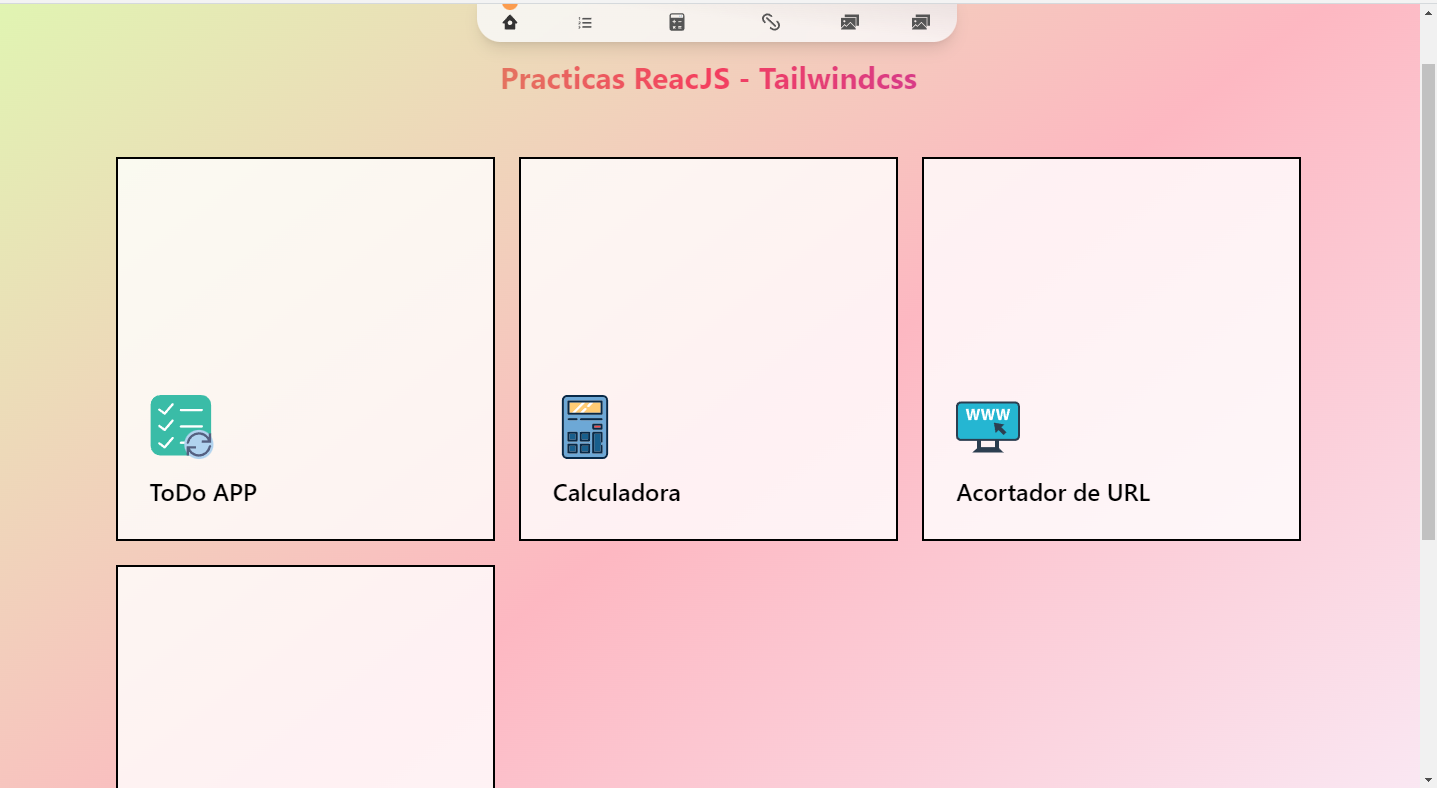
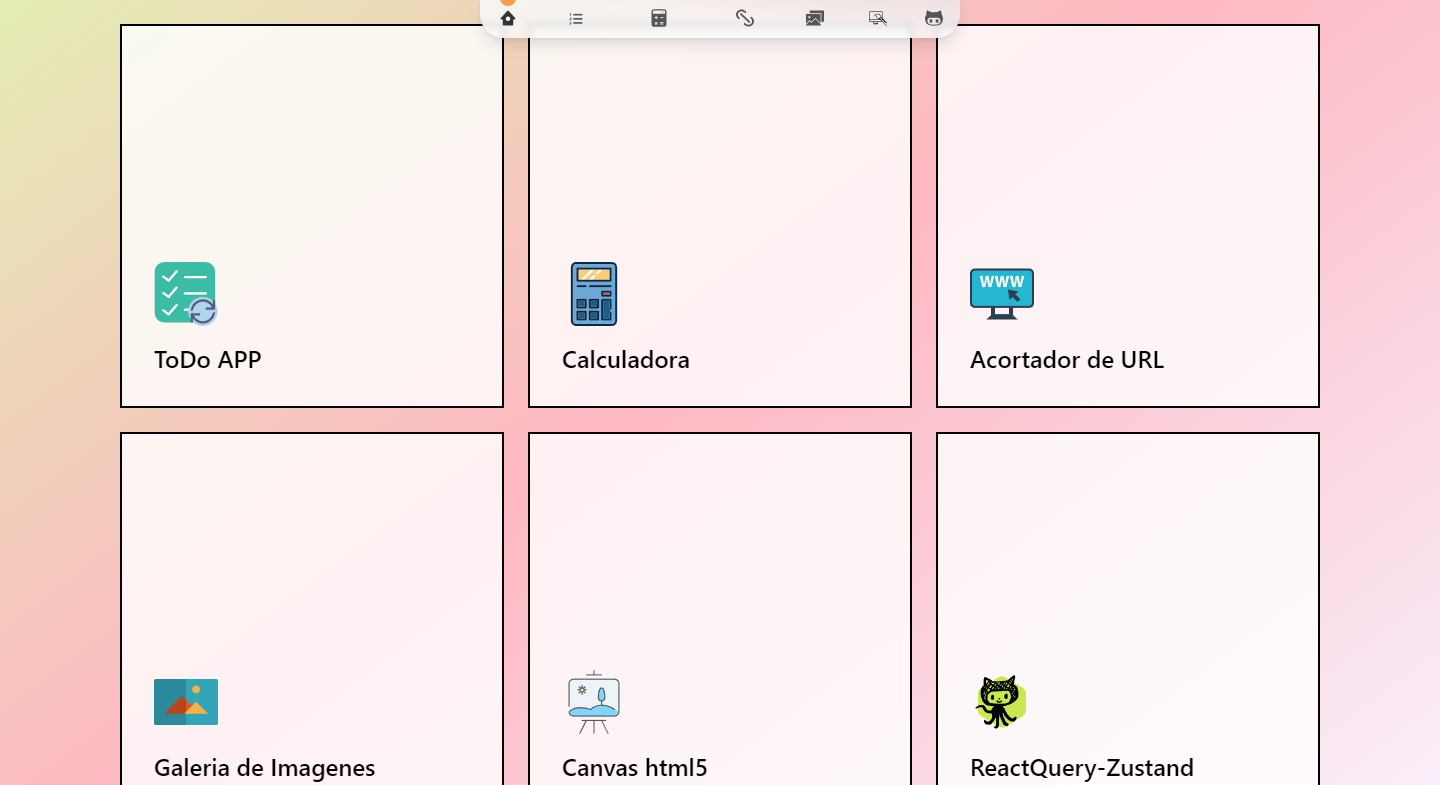
subiendo ecommerce

diff --git a/src/components/views/Menu.jsx b/src/components/views/Menu.jsx
@@ -1,100 +1,120 @@
-import React from 'react'
-import { NavLink } from 'react-router-dom'
-import homeGif from '../../images/icons8-casa.gif'
-import { image } from '../../images/imagenes'
-import './menu.css'
+import React from "react";
+import { NavLink } from "react-router-dom";
+import { image } from "../../images/imagenes";
+import "./menu.css";
 
-
-export default function Menu({home,changeHome,setHome}) {
-
-
+export default function Menu({ home, changeHome, setHome }) {
   return (
-    <div className={home?"w-1/2 duration-500":"fixed scale-75 md:scale-100 left-5 z-50 md:left-10 duration-500"}>
-    <ul 
-    
-    className={home?"z-50 flex flex-col justify-end items-start md:items-center gap-5 md:gap-6 scale-90 md:scale-100 md:pl-7 text-lg duration-500 ":"menuActivo flex flex-col justify-end gap-2 md:gap-3 items-center text-lg duration-500 z-50  "}>
-      <NavLink 
-      to="/"
-      
-      className={home?"hidden":"flex flex-col delay-100 link duration-200 absolute -bottom-16 w-8 hover:-translate-y-1 group cursor-pointer  translate-x-24 "}>
-        <div 
-        className=" group-hover:shadow-lg  group-hover:shadow-gray-300 duration-200 rounded-3xl flex justify-center  items-center">
-          <img
-            className="group-hover:-translate-y-3 w-3/5 delay-150 animate- duration-300"
-            src={image.back.url}
-            alt="Trabajos"
-          />
-        </div>
-        <p className="group-hover:font-bold font-medium  text-xs text-center group-hover:text-sky-900  ">
-          volver
-        </p>
-      </NavLink>
-      <NavLink 
-      to="/trabajos"
-      className={"flex flex-col delay-100 link duration-200 w-16 hover:-translate-y-1 group cursor-pointer md:gap-3 gap-1 translate-x-24 "}>
-        <div 
-        className="bg-gradient-to-tr  from-blue-400 to-blue-500 group-hover:shadow-lg group-hover:-translate-y-1 group-hover:shadow-gray-300 duration-200  py-4 rounded-lg md:rounded-3xl flex justify-center  items-center">
-          <img
-          width="100px"
-          height="100px"
-            className="group-hover:-translate-y-3 w-2/4 delay-150 duration-300 object-contain"
[1 lines of base64/hex data omitted]
-            alt="Trabajos"
-          />
-        </div>
-        <p className="group-hover:font-bold font-medium uppercase text-sm text-center group-hover:text-sky-900  ">
-          Trabajos
-        </p>
-      </NavLink>
-      <NavLink 
-      to='/labs'
-      className={"flex flex-col link duration-200 delay-150 w-16 hover:-translate-y-1 group cursor-pointer md:gap-3 gap-1 translate-x-10"}>
-        <div className="bg-gradient-to-tr from-red-300 via-red-300 to-red-400 group-hover:shadow-lg group-hover:shadow-gray-300 duration-200 h-full py-4  rounded-lg md:rounded-3xl group-hover:-translate-y-1 flex justify-center text-3xl items-center">
-          <img
-            width="100px"
-            height="100px"
-            alt="Laboratorio y Practicas"
-            className="group-hover:-translate-y-3 w-2/4 delay-150 duration-300 object-contain"
[1 lines of base64/hex data omitted]
-          />
-        </div>
-        <p className="group-hover:font-bold font-medium text-center uppercase text-sm group-hover:text-sky-900  ">
-          Labs
-        </p>
-      </NavLink >
-      <NavLink 
-          to='/aboutme'
-      className={"flex flex-col link duration-200 delay-200 hover:break-normal w-16 hover:-translate-y-1 group cursor-pointer md:gap-3 gap-1  translate-x-10"}>
-        <div className="bg-gradient-to-tr from-orange-200 to-orange-300 group-hover:shadow-lg group-hover:-translate-y-1 group-hover:shadow-gray-300 duration-200 h-full py-4 rounded-lg md:rounded-3xl flex justify-center text-3xl items-center">
-          <img
-            alt="sobre mi"
-            width="100px"
-                height="100px"
-                className="group-hover:-translate-y-3 w-2/4 delay-150 duration-300 object-contain"
[1 lines of base64/hex data omitted]
-          />
-        </div>
-        <p className="group-hover:font-bold  group-hover:break-normal font-medium text-center uppercase text-sm group-hover:text-sky-900  ">
-          Acerca de mi
-        </p>
-      </NavLink >
-      <NavLink 
-          to='/contacto'
-      className={"flex flex-col link duration-200 delay-300 w-16 hover:-translate-y-1 group cursor-pointer md:gap-3 gap-1 z-50 translate-x-24"}>
-        <div className="bg-gradient-to-tr from-teal-600 to-teal-700 group-hover:shadow-lg group-hover:-translate-y-1 group-hover:shadow-gray-300 duration-200 h-full py-4 rounded-lg md:rounded-3xl flex justify-center text-3xl items-center z-50 ">
-          <img
-            width="100px"
-            height="100px"
-            className="group-hover:-translate-y-3 w-2/4 delay-150 duration-300 object-contain"
-            alt="contacto"
[1 lines of base64/hex data omitted]
-          />
-        </div>
-        <p className="group-hover:font-bold font-medium text-center uppercase text-sm group-hover:text-sky-900 z-50  ">
-          Contacto
-        </p>
-      </NavLink >
-    </ul>
-  </div>
-  )
+    <div
+      className={
+        home
+          ? "w-1/2 duration-500 "
+          : "fixed scale-75 md:scale-100 left-5 z-50 md:left-10 duration-500"
+      }
+    >
+      <ul
+        className={
+          home
+            ? "z-50 flex flex-col justify-end items-start md:items-center gap-10 md:gap-6 scale-90 md:scale-100 md:pl-7 mt-10 text-lg duration-500 "
+            : "menuActivo flex flex-col justify-end gap-2 md:gap-3 items-center text-lg duration-500 z-50  "
+        }
+      >
+        <NavLink
+          to="/"
+          className={
+            home
+              ? "hidden"
+              : "flex flex-col delay-100 link duration-200 absolute -bottom-16 w-8 hover:-translate-y-1 group cursor-pointer  translate-x-24 "
+          }
+        >
+          <div className=" group-hover:shadow-lg  group-hover:shadow-gray-300 duration-200 rounded-3xl flex justify-center  items-center">
+            <img
+              className="group-hover:-translate-y-3 w-3/5 delay-150 animate- duration-300"
+              src={image.back.url}
+              alt="Trabajos"
+            />
+          </div>
+          <p className="group-hover:font-bold font-medium  text-xs text-center group-hover:text-sky-900  ">
+            volver
+          </p>
+        </NavLink>
+        <NavLink
+          to="/trabajos"
+          className={
+            "flex flex-col delay-100 link duration-200 w-16 hover:-translate-y-1 group cursor-pointer md:gap-3 gap-1 translate-x-24 "
+          }
+        >
+          <div className="bg-gradient-to-tr  from-blue-400 to-blue-500 group-hover:shadow-lg group-hover:-translate-y-1 group-hover:shadow-gray-300 duration-200  py-4 rounded-lg md:rounded-3xl flex justify-center  items-center">
+            <img
+              width="100px"
+              height="100px"
+              className="group-hover:-translate-y-3 w-2/4 delay-150 duration-300 object-contain"
[1 lines of base64/hex data omitted]
+              alt="Trabajos"
+            />
+          </div>
+          <p className="group-hover:font-bold font-medium uppercase text-sm text-center group-hover:text-sky-900  ">
+            Trabajos
+          </p>
+        </NavLink>
+        <NavLink
+          to="/labs"
+          className={
+            "flex flex-col link duration-200 delay-150 w-16 hover:-translate-y-1 group cursor-pointer md:gap-3 gap-1 translate-x-10"
+          }
+        >
+          <div className="bg-gradient-to-tr from-red-300 via-red-300 to-red-400 group-hover:shadow-lg group-hover:shadow-gray-300 duration-200 h-full py-4  rounded-lg md:rounded-3xl group-hover:-translate-y-1 flex justify-center text-3xl items-center">
+            <img
+              width="100px"
+              height="100px"
+              alt="Laboratorio y Practicas"
+              className="group-hover:-translate-y-3 w-2/4 delay-150 duration-300 object-contain"
[1 lines of base64/hex data omitted]
+            />
+          </div>
+          <p className="group-hover:font-bold font-medium text-center uppercase text-sm group-hover:text-sky-900  ">
+            Labs
+          </p>
+        </NavLink>
+        <NavLink
+          to="/aboutme"
+          className={
+            "flex flex-col link duration-200 delay-200 hover:break-normal w-16 hover:-translate-y-1 group cursor-pointer md:gap-3 gap-1  translate-x-10"
+          }
+        >
+          <div className="bg-gradient-to-tr from-orange-200 to-orange-300 group-hover:shadow-lg group-hover:-translate-y-1 group-hover:shadow-gray-300 duration-200 h-full py-4 rounded-lg md:rounded-3xl flex justify-center text-3xl items-center">
+            <img
+              alt="sobre mi"
+              width="100px"
+              height="100px"
+              className="group-hover:-translate-y-3 w-2/4 delay-150 duration-300 object-contain"
[1 lines of base64/hex data omitted]
+            />
+          </div>
+          <p className="group-hover:font-bold  group-hover:break-normal font-medium text-center uppercase text-sm group-hover:text-sky-900  ">
+            Acerca de mi
+          </p>
+        </NavLink>
+        <NavLink
+          to="/contacto"
+          className={
+            "flex flex-col link duration-200  w-16 hover:-translate-y-1 group cursor-pointer md:gap-3 gap-1 z-50 translate-x-24"
+          }
+        >
+          <div className="bg-gradient-to-tr from-teal-600 to-teal-700 group-hover:shadow-lg group-hover:-translate-y-1 group-hover:shadow-gray-300 duration-200 h-full py-4 rounded-lg md:rounded-3xl flex justify-center text-3xl items-center z-50 ">
+            <img
+              width="100px"
+              height="100px"
+              className="group-hover:-translate-y-3 w-2/4 delay-150 duration-300 object-contain"
+              alt="contacto"
[1 lines of base64/hex data omitted]
+            />
+          </div>
+          <p className="group-hover:font-bold font-medium text-center uppercase text-sm group-hover:text-sky-900 z-50  ">
+            Contacto
+          </p>
+        </NavLink>
+      </ul>
+    </div>
+  );
 }

diff --git a/src/components/views/Trabajos.jsx b/src/components/views/Trabajos.jsx
@@ -6,6 +6,7 @@ import CartaOnline from "../../images/CartaOnline.png";
 import CardsTrabajos from "./CardsTrabajos";
 import Galeria360 from "../../images/Galeria360.png"
 import Practica from "../../images/PracticasReactJS.png"
+import Ecommerce from "../../images/Ecommerce.png"
 import SkeletonCards from "./SkeletonCards";
 
 export default function Trabajos() {
@@ -22,6 +23,14 @@ export default function Trabajos() {
       imagen: Practica,
       url: "//practicas-reactjs.vercel.app",
       repositorio: "https://github.com/RamiroQuiro/Galeria360",
+      herramientas: ["react", "tailwindCSS", "nodeJS"],
+    },
+    {
+      nombre: "Ecommerce con Planilla de Calulos Google",
+      descripcion: "Tienda Virtual con base de datos de tus productos con una simple y poderosa planilla de calculos.",
+      imagen: Ecommerce,
+      url: "//tienda-virtual-psi.vercel.app/",
+      repositorio: "https://github.com/RamiroQuiro/ecommerceNextJS",
       herramientas: ["react", "tailwindCSS", "nodeJS"],
     },
     {
@@ -60,10 +69,10 @@ export default function Trabajos() {
   ];
 
   return (
-    <div className="flex flex-col  z-50 items-start duration-150 ease-in-out gap-5 w-10/12 h-full  p-5">
+    <div className="flex flex-col  z-50 items-start duration-150 ease-in-out gap-5 w-full md:w-10/12 h-full ml-5 pt-8  md:py-5">
       <h1 className={titles.h1 + "ml-12 "}>Trabajos</h1>
 
-      <section className="w-full flex flex-wrap flex-col md:flex-row gap-5 gap-y-10 mb-8 md:mb-0 flex-between items-center pt-0 p-8">
+      <section className="w-full flex flex-wrap flex-col md:flex-row gap-5 md:gap-y-10 mb-8 md:mb-0 flex-between items-center pt-0 p-8">
         {!loading ? (
           <>
             <SkeletonCards />

diff --git a/src/components/views/Titulo&Redes.jsx b/src/components/views/Titulo&Redes.jsx
@@ -7,14 +7,14 @@ export default function TituloRedes({ home }) {
   return (
     <div className={
       home?
-      "w-1/2   relative flex  h-full items-center  "
+      "w-1/2   relative flex   h-full items-center  "
     :
-    "w-full relative  flex  h-full md:items-start  justify-end "}>
-      <div className={home?"text-5xl text-sky-900  z-10 font-black duration-300 -translate-y-32 md:ml-16 scale-75 md:scale-100 "
+    "w-full relative  flex  h-full md:items-start justify-end "}>
+      <div className={home?"text-5xl text-sky-900  z-10 font-black duration-300 -translate-y-48 md:ml-16 scale-75 md:scale-100 "
     :
     "text-5xl text-sky-900 absolute left-0 z-10 font-black duration-300 md:mt-5 flex md:w-full md:mx-auto items-start  "  
     }>
-        <div className={home ? "duration-200" : "duration-200  md:mx-auto md:text-center md:scale-75 md:translate-x-0 -translate-x-20 scale-50"}>
+        <div className={home ? "duration-200" : "duration-200  md:mx-auto md:text-center md:scale-75 md:translate-x-0 translate-x-20 scale-50"}>
           <h1 className=" peer duration-200 hover:scale-110  hover:-rotate-6 hover:p-2 hover:bg-sky-900 hover:text-gray-100 rounded-lg">
             Ramiro Quiroga
           </h1>
@@ -94,7 +94,7 @@ export default function TituloRedes({ home }) {
       <div
         className={
           home
-            ? "flex flex-col gap-4 absolute duration-150   md:translate-x-52 z-30 scale-75 md:scale-100 items-center "
+            ? "flex flex-col gap-4 absolute duration-150   md:translate-x-52 translate-y-10 -translate-x-5 z-30 scale-75 md:scale-100 items-center "
             : "hidden "
         }
       >

diff --git a/src/components/Layout/Layout.jsx b/src/components/Layout/Layout.jsx
@@ -98,9 +98,9 @@ export default function Layout() {
 
 
   return (
-    <div className={themes.light+"flex flex-col font-roboto md:flex transition-all  ease-in-out relative "}>
-      <nav className="flex md:flex-row flex-col w-full  md:w-full mx-auto items-end md:items-center  absolute
-        justify-end  md:justify-between  py-8 pr-5 md:px-20 font-medium uppercse text-sm ">
+    <div className={themes.light+"flex w-screen overflow-x-hidden flex-col font-roboto md:flex transition-all min-h-screen ease-in-out relative "}>
+      <nav className="flex md:flex-row flex-col w-full  md:w-full mx-auto items-start ml-5 justify-around md:items-center  absolute top-0 left-0
+        md:justify-between  gap-5 py-5 md:px-20 font-medium uppercse text-sm ">
         <p className=" flex gap-5 cursor-pointer">
           {diasSemana[fecha.dia]} , {fecha.dia} de {meses[fecha.mes]}
         </p>
@@ -120,7 +120,7 @@ export default function Layout() {
           </p>
         </div>
       </nav>
-      <main  className="  ">
+      <main  className=" ">
         <Outlet />
       </main>
     </div>

diff --git a/src/components/views/Labs.jsx b/src/components/views/Labs.jsx
@@ -86,10 +86,10 @@ setTimeout(()=>{
     setLoading(true)
 },500)
   return (
-    <div className="flex flex-col  z-30 items-start duration-150 ease-in-out gap-5 w-10/12 h-full mx-auto p-5  md:p-5">
+    <div className="flex flex-col  z-50 items-start duration-150 ease-in-out gap-5 w-full md:w-10/12 h-full ml-5 pt-8 md:py-5">
     <h1 className={titles.h1+"ml-12 "}>Practicas y Pruebas</h1>
 
-    <section className="w-full flex flex-wrap flex-col md:flex-row gap-5 gap-y-10 mb-8 md:mb-0 flex-between items-center pt-0 p-8">
+    <section className="w-full flex flex-wrap flex-col md:flex-row gap-5 md:gap-y-10 mb-8 md:mb-0 flex-between items-center pt-0 p-8">
     {
         !loading?
         <>

diff --git a/src/components/views/CardsTrabajos.jsx b/src/components/views/CardsTrabajos.jsx
@@ -4,7 +4,7 @@ import { image } from '../../images/imagenes'
 
 export default function CardsTrabajos({ nombre,imagen,website,repositorio,herramientas,id }) {
   return (
-    <div className="bg-gray-50 bg-opacity-95  md:w-72 shadow-md hover:shadow-lg hover:-translate-y-1 mx-auto rounded-xl hover:scale-110 duration-150 ">
+    <div className="bg-gray-50 bg-opacity-95 w-10/12 md:w-72 shadow-md hover:shadow-lg hover:-translate-y-1 mx-auto rounded-xl hover:scale-105 duration-150 ">
           <div className="flex items-center ">
             <img
               alt="profil"

diff --git a/src/components/views/Inicio.jsx b/src/components/views/Inicio.jsx
@@ -4,7 +4,6 @@ import image2 from "../../images/RamaCode.webp";
 export default function Inicio({}) {
   return (
     <div className='w-full  '>
-      <div className=''>
     <img
       className={
         " opacity-100 duration-300 ease-in-out transition-all -z-10  flex justify-center items-center mx-auto scale-150 md:scale-100 h-full -rotate-12"
@@ -13,7 +12,7 @@ export default function Inicio({}) {
       height="1336px"
       src={image2}
       alt="RamaCode"
-    /></div>
+    />
   </div>
   )
 }
